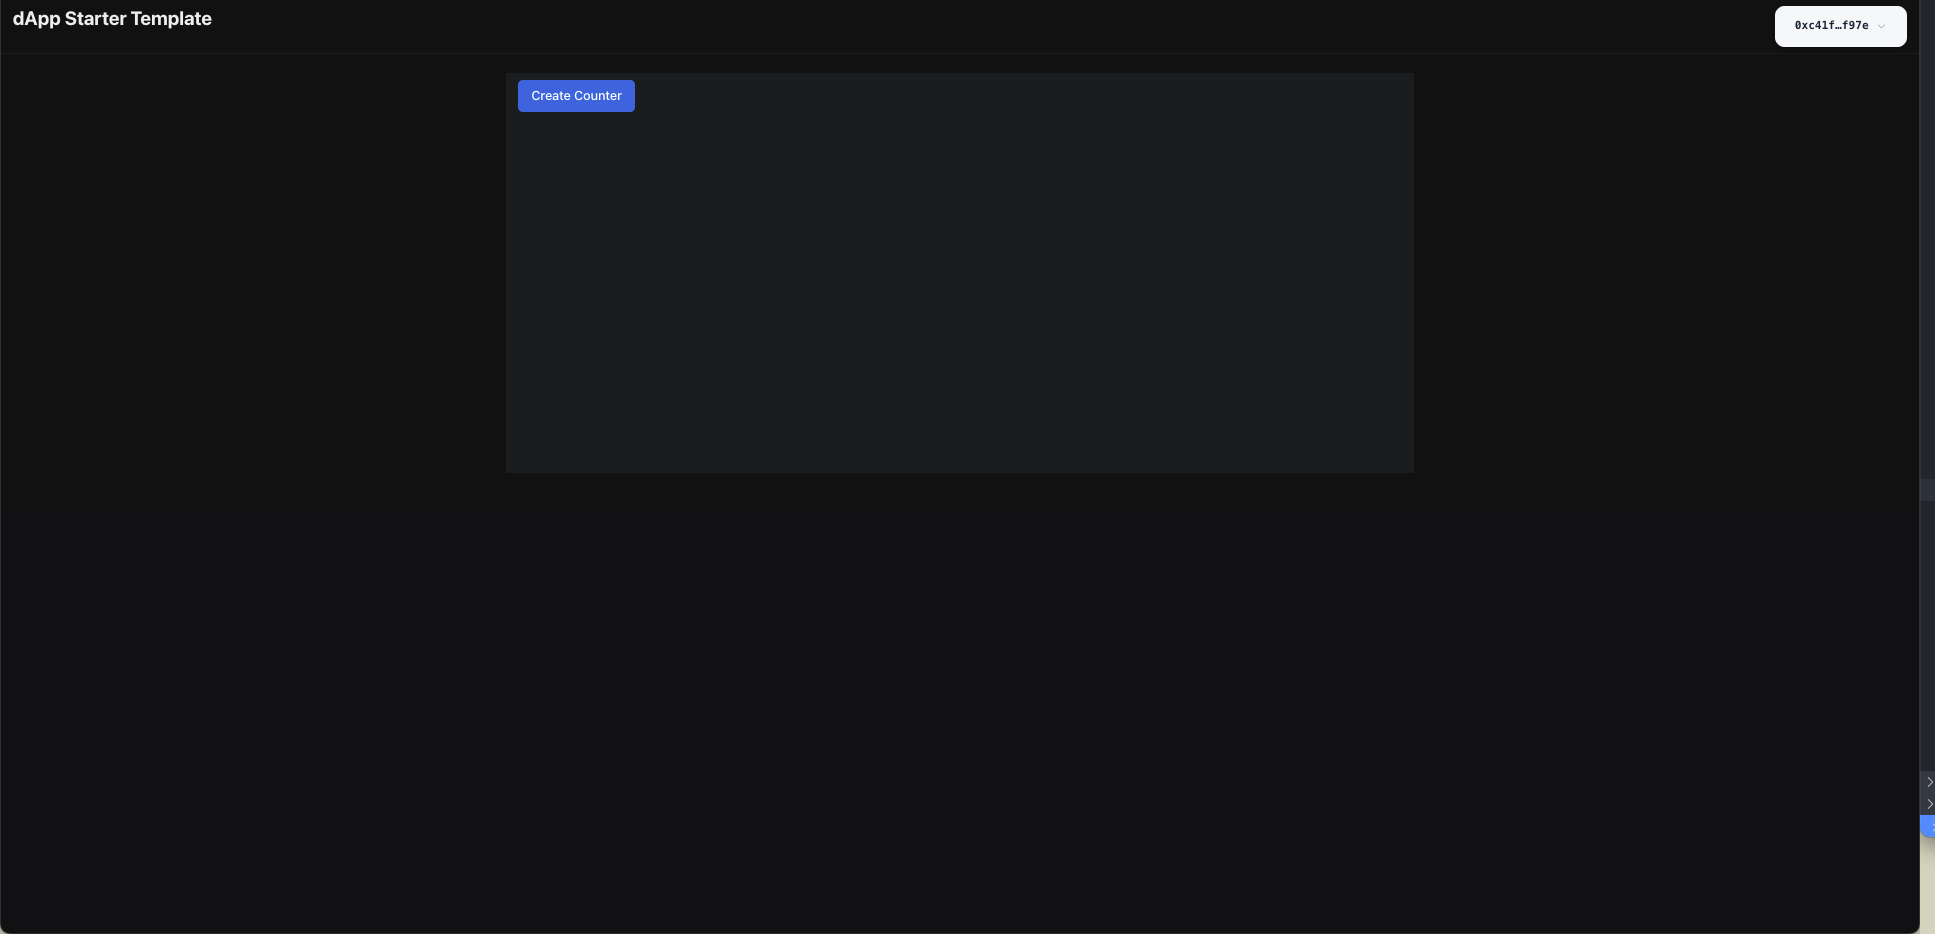
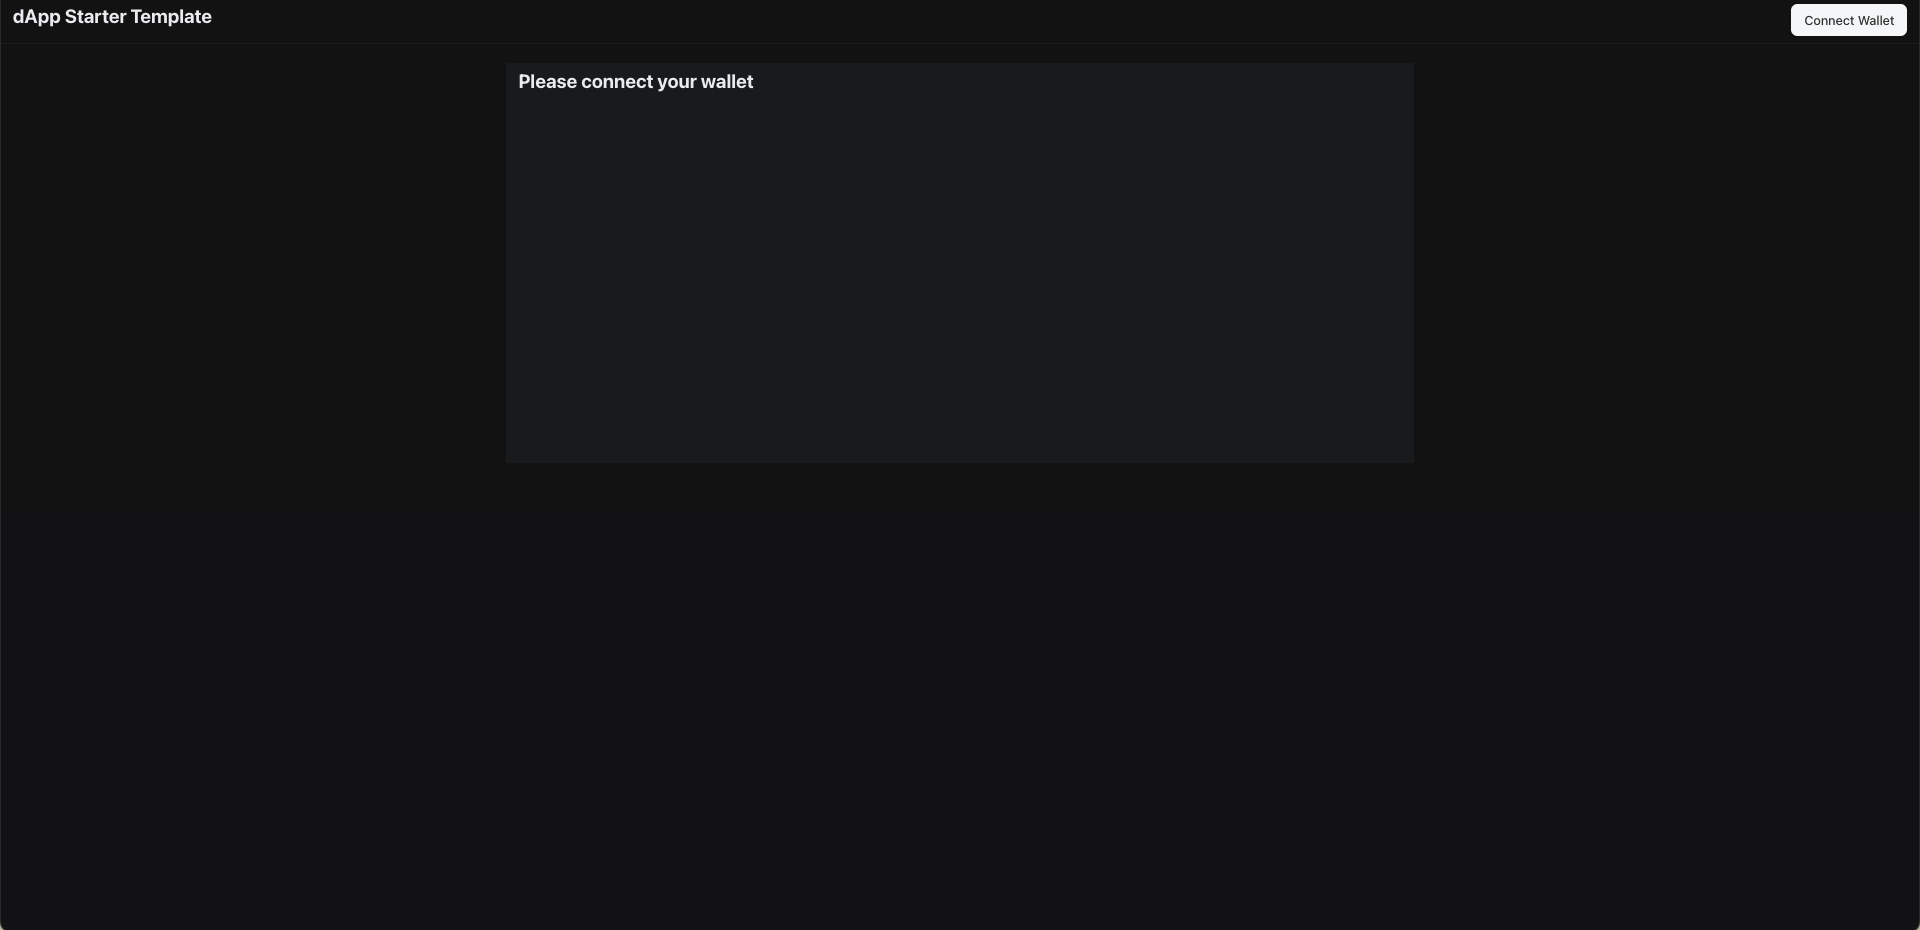
token transfer

diff --git a/4.distributed-counter/counter-dapp/src/Counter.tsx b/4.distributed-counter/counter-dapp/src/Counter.tsx
@@ -1,0 +1,106 @@
+import {
+  useCurrentAccount,
+  useSignAndExecuteTransaction,
+  useSuiClient,
+  useSuiClientQuery,
+} from "@mysten/dapp-kit";
+import type { SuiObjectData } from "@mysten/sui/client";
+import { Transaction } from "@mysten/sui/transactions";
+import { Button, Flex, Heading, Text } from "@radix-ui/themes";
+import { useNetworkVariable } from "./networkConfig";
+import { useState } from "react";
+import ClipLoader from "react-spinners/ClipLoader";
+
+export function Counter({ id }: { id: string }) {
+  const counterPackageId = useNetworkVariable("counterPackageId");
+  const suiClient = useSuiClient();
+  const currentAccount = useCurrentAccount();
+  const { mutate: signAndExecute } = useSignAndExecuteTransaction();
+  const { data, isPending, error, refetch } = useSuiClientQuery("getObject", {
+    id,
+    options: {
+      showContent: true,
+      showOwner: true,
+    },
+  });
+
+  const [waitingForTxn, setWaitingForTxn] = useState("");
+
+  const executeMoveCall = (method: "increment" | "reset") => {
+    setWaitingForTxn(method);
+
+    const tx = new Transaction();
+
+    if (method === "reset") {
+      tx.moveCall({
+        arguments: [tx.object(id), tx.pure.u64(0)],
+        target: `${counterPackageId}::counter::set_value`,
+      });
+    } else {
+      tx.moveCall({
+        arguments: [tx.object(id)],
+        target: `${counterPackageId}::counter::increment`,
+      });
+    }
+
+    signAndExecute(
+      {
+        transaction: tx,
+      },
+      {
+        onSuccess: (tx) => {
+          suiClient.waitForTransaction({ digest: tx.digest }).then(async () => {
+            await refetch();
+            setWaitingForTxn("");
+          });
+        },
+      },
+    );
+  };
+
+  if (isPending) return <Text>Loading...</Text>;
+
+  if (error) return <Text>Error: {error.message}</Text>;
+
+  if (!data.data) return <Text>Not found</Text>;
+
+  const ownedByCurrentAccount =
+    getCounterFields(data.data)?.owner === currentAccount?.address;
+
+  return (
+    <>
+      <Heading size="3">Counter {id}</Heading>
+
+      <Flex direction="column" gap="2">
+        <Text>Count: {getCounterFields(data.data)?.value}</Text>
+        <Flex direction="row" gap="2">
+          <Button
+            onClick={() => executeMoveCall("increment")}
+            disabled={waitingForTxn !== ""}
+          >
+            {waitingForTxn === "increment" ? (
+              <ClipLoader size={20} />
+            ) : (
+              "Increment"
+            )}
+          </Button>
+          {ownedByCurrentAccount ? (
+            <Button
+              onClick={() => executeMoveCall("reset")}
+              disabled={waitingForTxn !== ""}
+            >
+              {waitingForTxn === "reset" ? <ClipLoader size={20} /> : "Reset"}
+            </Button>
+          ) : null}
+        </Flex>
+      </Flex>
+    </>
+  );
+}
+function getCounterFields(data: SuiObjectData) {
+  if (data.content?.dataType !== "moveObject") {
+    return null;
+  }
+
+  return data.content.fields as { value: number; owner: string };
+}

diff --git a/4.distributed-counter/counter-dapp/src/CreateCounter.tsx b/4.distributed-counter/counter-dapp/src/CreateCounter.tsx
@@ -1,0 +1,60 @@
+import { Transaction } from "@mysten/sui/transactions";
+import { Button, Container } from "@radix-ui/themes";
+import { useSignAndExecuteTransaction, useSuiClient } from "@mysten/dapp-kit";
+import { useNetworkVariable } from "./networkConfig";
+import ClipLoader from "react-spinners/ClipLoader";
+
+export function CreateCounter({
+  onCreated,
+}: {
+  onCreated: (id: string) => void;
+}) {
+  const counterPackageId = useNetworkVariable("counterPackageId");
+  const suiClient = useSuiClient();
+  const {
+    mutate: signAndExecute,
+    isSuccess,
+    isPending,
+  } = useSignAndExecuteTransaction();
+
+  function create() {
+    const tx = new Transaction();
+
+    tx.moveCall({
+      arguments: [],
+      target: `${counterPackageId}::counter::create`,
+    });
+
+    signAndExecute(
+      {
+        transaction: tx,
+      },
+      {
+        onSuccess: async ({ digest }) => {
+          const { effects } = await suiClient.waitForTransaction({
+            digest: digest,
+            options: {
+              showEffects: true,
+            },
+          });
+
+          onCreated(effects?.created?.[0]?.reference?.objectId!);
+        },
+      },
+    );
+  }
+
+  return (
+    <Container>
+      <Button
+        size="3"
+        onClick={() => {
+          create();
+        }}
+        disabled={isSuccess || isPending}
+      >
+        {isSuccess || isPending ? <ClipLoader size={20} /> : "Create Counter"}
+      </Button>
+    </Container>
+  );
+}

diff --git a/4.distributed-counter/counter-dapp/src/App.tsx b/4.distributed-counter/counter-dapp/src/App.tsx
@@ -1,8 +1,17 @@
-import { ConnectButton } from "@mysten/dapp-kit";
+import { ConnectButton, useCurrentAccount } from "@mysten/dapp-kit";
+import { isValidSuiObjectId } from "@mysten/sui/utils";
 import { Box, Container, Flex, Heading } from "@radix-ui/themes";
-import { WalletStatus } from "./WalletStatus";
+import { useState } from "react";
+import { Counter } from "./Counter";
+import { CreateCounter } from "./CreateCounter";
 
 function App() {
+  const currentAccount = useCurrentAccount();
+  const [counterId, setCounter] = useState(() => {
+    const hash = window.location.hash.slice(1);
+    return isValidSuiObjectId(hash) ? hash : null;
+  });
+
   return (
     <>
       <Flex
@@ -29,7 +38,20 @@ function App() {
           px="4"
           style={{ background: "var(--gray-a2)", minHeight: 500 }}
         >
-          <WalletStatus />
+          {currentAccount ? (
+            counterId ? (
+              <Counter id={counterId} />
+            ) : (
+              <CreateCounter
+                onCreated={(id) => {
+                  window.location.hash = id;
+                  setCounter(id);
+                }}
+              />
+            )
+          ) : (
+            <Heading>Please connect your wallet</Heading>
+          )}
         </Container>
       </Container>
     </>

diff --git a/4.Distributed-Counter.md b/4.Distributed-Counter.md
@@ -800,6 +800,8 @@ function App() {
 export default App;
 ```
 
+`OwnedObjects.tsx`와 `WalletStatus.tsx` 파일은 삭제해도 됩니다.
+
 ## 6단계 프론트엔드 실행
 
 `distributed-counter/counter-dapp` 디렉토리에서 다음 명령어를 실행합니다.
@@ -808,10 +810,47 @@ export default App;
 pnpm run dev
 ```
 
+아래 url로 접속합니다.
+
+```plaintext
+http://localhost:5173/
+```
+
 ## 7단계
 
-키 임포트 or 지갑 생성
-프론트 동작
+url을 접속하면 아래와 같은 화면으로 이동할 것입니다.
+![frontend main](/images/4.Distributed-Counter/Frontend_main.png)
+
+Connect Wallet을 통해 지갑을 먼저 연결해야 합니다.
+만약 Sui의 `Slush` 지갑이 없다면 먼저 설치해 주세요.
+
+이제 Sui Client의 계정에 있는 Sui 토큰을 `Slush` 지갑의 계정으로 옮길겁니다.
+
+먼저 Sui Client의 `active-address`를 확인합니다.
+
+```bash
+sui client active-address
+```
+
+이제 다음 명령어를 통해 Sui 토큰 Object를 확인합니다.
+
+```bash
+sui client gas <YOUR_ADDRESS>
+```
+
+아래와 같이 gas coin id(sui object id)를 확인 할 수 있습니다.
+
+![gas coin id](/images/4.Distributed-Counter/gas_coin_id.png)
+
+이 중 하나의 `gasCoinId`를 선택해서 옮길겁니다.
+
+다음 명령어를 통해 Sui 토큰을 옮깁니다.
+
+```bash
+sui client pay-sui --recipients <YOUR_SLUSH_WALLET_ADDRESS> --input-coins <GAS_COIN_ID> --amounts <AMOUNT_IN_MIST> --gas-budget 5000000
+```
+
+> `Request rejected 429` 에러가 발생하면 다시 시도하거나 gas-budget을 올려서 시도해봅니다.
 
 ## 8단계
 
